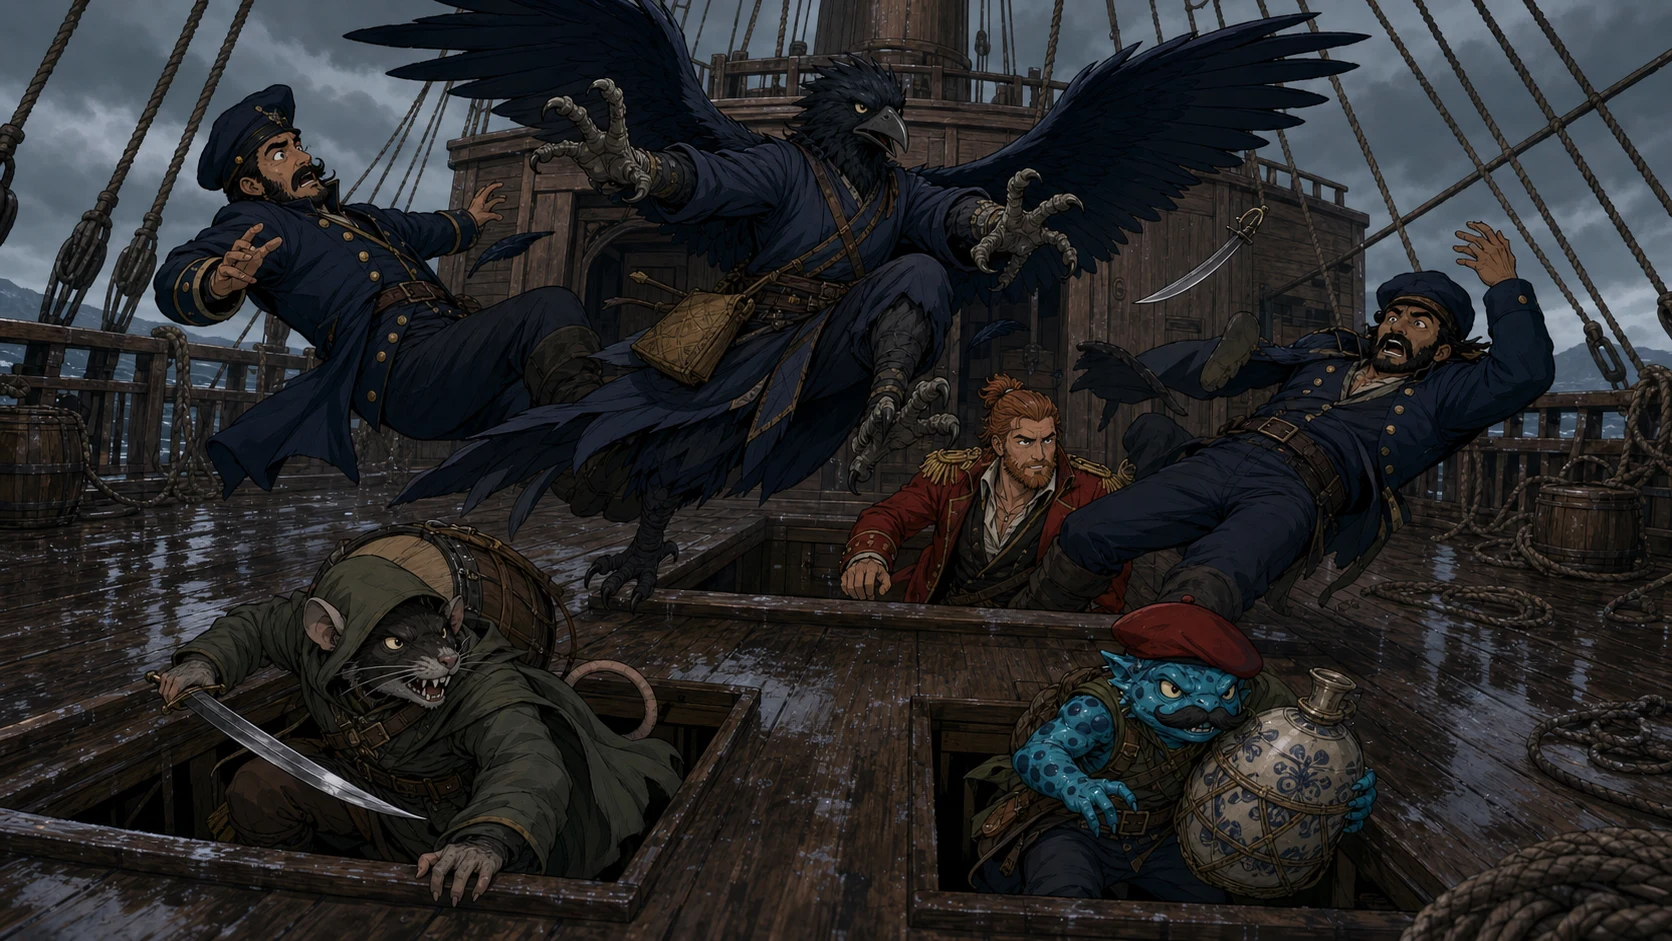
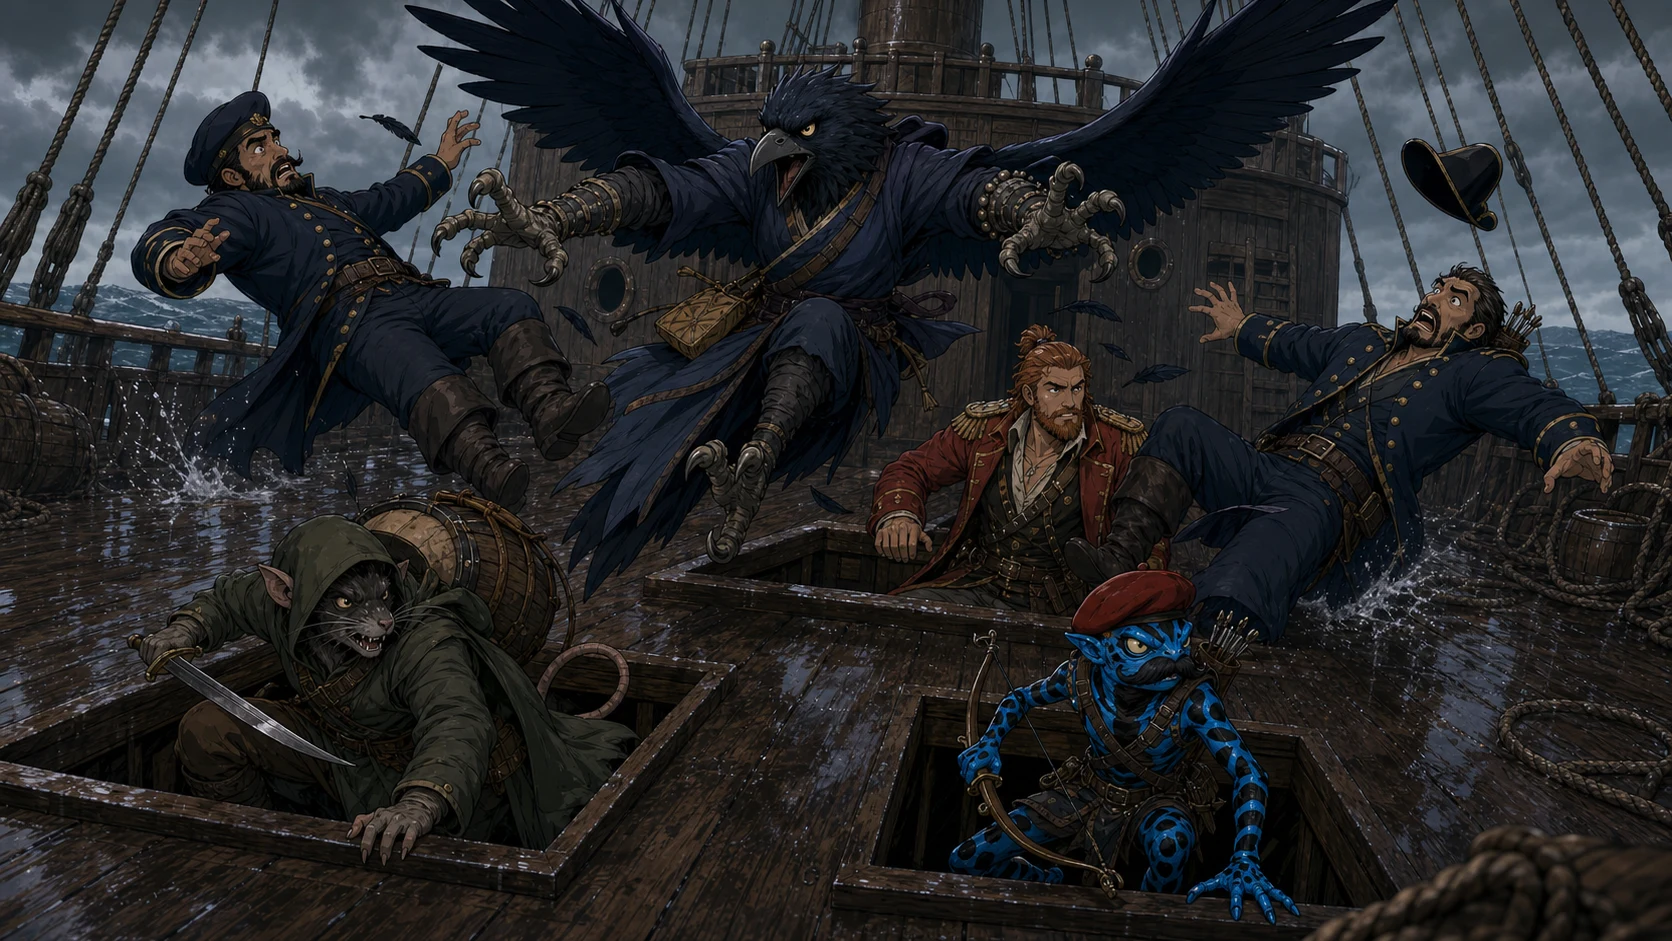
Published 2 files

diff --git a/content/sessions/Session-01-Recap.md b/content/sessions/Session-01-Recap.md
@@ -13,7 +13,7 @@ tags:
 
 The hold of the [[Saltwright]] was dark and close, smelling of bilge water and old rope, and the party waited in it like a held breath. Above, they could hear [[Beaumont-Sel|Beaumont]]'s voice carrying across the deck, easy and unhurried, keeping [[Barnaby-Rook|Barnaby Rook]]'s attention fixed at the wheel while three of his crew descended the ladder into the dark below.
 
-![[raw/assets/session-art/session-01-01-hold-waiting.webp|Archer-style adult animated illustration, widescreen cinematic scene inside the Saltwright's cramped cargo hold, old grey-brown two-masted merchant brig interior with stacked barrels, crates, sacks, two swinging lanterns, wet cedar beams, bilge-water sheen, and a narrow sliver of daylight through an aft gap above the waterline; Delmar Fisk waits with a musket, sandy red hair in a messy topknot, thick sandy-red beard and curled moustache with grey edges, salt-stiff scarlet admiral coat with gold epaulettes; Crisdalynn Khinriss crouches as a dark blue-black crow aarakocra monk with folded wings, talons, geometric leatherwork, and chart satchel; Perrin Black-Jaw hides as a three-foot hooded fancy-rat Rattkin sailor in an olive-drab cloak with a bodhran drum on his back; Jean-Claude Tabarnack is a three-foot compact toxic-blue Grung ranger with black patterning, red beret, false black moustache, and heavy ceramic decanter; clean vector-like linework, cel-shaded lantern lighting, no text]]
+![[raw/assets/session-art/session-01-01-hold-waiting.webp|Archer-style adult animated illustration, widescreen cinematic scene inside the Saltwright's cramped cargo hold, old grey-brown two-masted merchant brig interior with stacked barrels, crates, sacks, two swinging lanterns, wet cedar beams, bilge-water sheen, and a narrow sliver of daylight through an aft gap above the waterline; Delmar Fisk waits with a musket, sandy red hair in a messy topknot, thick sandy-red beard and curled moustache with grey edges, salt-stiff scarlet admiral coat with gold epaulettes; Crisdalynn Khinriss crouches as a dark blue-black crow aarakocra monk with folded wings, talons, geometric leatherwork, and chart satchel; Perrin Black-Jaw hides as a three-foot hooded fancy-rat Rattkin sailor in an olive-drab cloak with a bodhran drum on his back; Jean-Claude Tabarnack is a three-foot lean humanoid poison dart frog scaled to adventurer size, electric-blue slick skin, long thin frog limbs, splayed adhesive fingers and toes, large black underside patches, geometric black bands across arms, legs, shoulders, and face, red beret, false black moustache, ranger harness, shortbow and quiver, small scars, hard escaped-hunter stare, gripping a heavy ceramic decanter; clean vector-like linework, cel-shaded lantern lighting, no text]]
 
 The Enforcer came first. The crew had taken to calling him Cap'n Gorgeous, and the name wasn't wrong. Tall, broadly built, golden hair that caught even the thin light of the hold. He walked in without hesitation. A [[Musket|musket]] shot answered him. The crack of it in that enclosed space was enormous, and for a ringing, disorienting moment both [[Delmar-Fisk|Delmar]] and [[Crissdalynn-Khinriss|Crisdalynn]] lost the world to white noise. The alarm went up. But [[Perrin-Black-Jaw|Perrin]] had laid a Minor Illusion across the doorway they were sheltering behind, and Crisdalynn worked fast, dragging Cap'n Gorgeous back through it before the sound could be placed. The two deckhands came down cautious, uncertain, not knowing exactly what they were walking toward. They found out. Neither of them made it back up.
 
@@ -23,7 +23,7 @@ The Enforcer came first. The crew had taken to calling him Cap'n Gorgeous, and t
 
 Delmar knelt at the foot of the ladder and Crisdalynn didn't slow down. She hit his hands at a run and he launched her up through the hatch like a crack of thunder. Her wings snapped open the moment she cleared the weather deck and sent the two nearest Dravosi sprawling. Perrin and [[Jean-Claude-Tabarnack|Jean-Claude]] emerged through a gap in the decking at a second angle, catching the remaining crew between them. It was over quickly. Both Dravosi Enforcers died in the press of it. When the last deckhand, a young man maybe nineteen with frightened eyes, dropped his sword and went still, Rook's voice cut across the deck from the gangplank.
 
-![[raw/assets/session-art/session-01-03-crisdalynn-breach.webp|Archer-style adult animated illustration, widescreen deck fight on the Saltwright weather deck under grey Midchain light, Delmar Fisk with sandy red topknot and thick sandy-red beard braces at the hatch in a scarlet admiral coat after launching Crisdalynn Khinriss upward; Crisdalynn explodes through the opening as a dark blue-black crow aarakocra monk with wings snapping wide, talons forward, geometric leatherwork, and chart satchel, knocking two navy-blue Dravosi sailors with brass buttons sprawling across wet planks; Perrin Black-Jaw, a three-foot hooded fancy-rat Rattkin, and Jean-Claude Tabarnack, a three-foot toxic-blue Grung with red beret and false moustache, emerge from a second deck gap; old plain merchant brig details, patched rail, working rigging, low deckhouse aft, clean vector-like linework, cel-shaded storm light, no text]]
+![[raw/assets/session-art/session-01-03-crisdalynn-breach.webp|Archer-style adult animated illustration, widescreen deck fight on the Saltwright weather deck under grey Midchain light, Delmar Fisk with sandy red topknot and thick sandy-red beard braces at the hatch in a scarlet admiral coat after launching Crisdalynn Khinriss upward; Crisdalynn explodes through the opening as a dark blue-black crow aarakocra monk with wings snapping wide, talons forward, geometric leatherwork, and chart satchel, knocking two navy-blue Dravosi sailors with brass buttons sprawling across wet planks; Perrin Black-Jaw, a three-foot hooded fancy-rat Rattkin, and Jean-Claude Tabarnack, a three-foot lean electric-blue humanoid poison dart frog with long thin limbs, splayed adhesive fingers and toes, large black underside patches, geometric black bands, red beret, false black moustache, ranger harness, shortbow and quiver, emerge from a second deck gap with hunter readiness; old plain merchant brig details, patched rail, working rigging, low deckhouse aft, clean vector-like linework, cel-shaded storm light, no text]]
 
 _"I'll shoot you myself for that, turncoat."_
 

diff --git a/content/characters/index.md b/content/characters/index.md
@@ -1,6 +1,6 @@
 ---
 publish: true
-title: Player Characters
+title: Characters
 created: 2026-05-03
 modified: 2026-05-14
 tags:
@@ -11,9 +11,12 @@ tags:
 
 # The Party
 
-- [[characters/coralyra/index|Coralyra Dranra]]
 - [[characters/crissdalynn/index|Crissdalynn Khinriss]]
 - [[characters/delmar/index|Delmar Fisk]]
 - [[characters/jean-claude/index|Jean Claude Tabarnack]]
 - [[characters/perrin/index|Perrin Black-Jaw]]
-- [[characters/stripes/index|Stripes Bitemore]]
+
+## Not Yet Joined
+
+- [[characters/stripes/Stripes-Bitemore|Stripes Bitemore]]
+- [[Coralyra-Dranra|Coralyra Dranra]]
